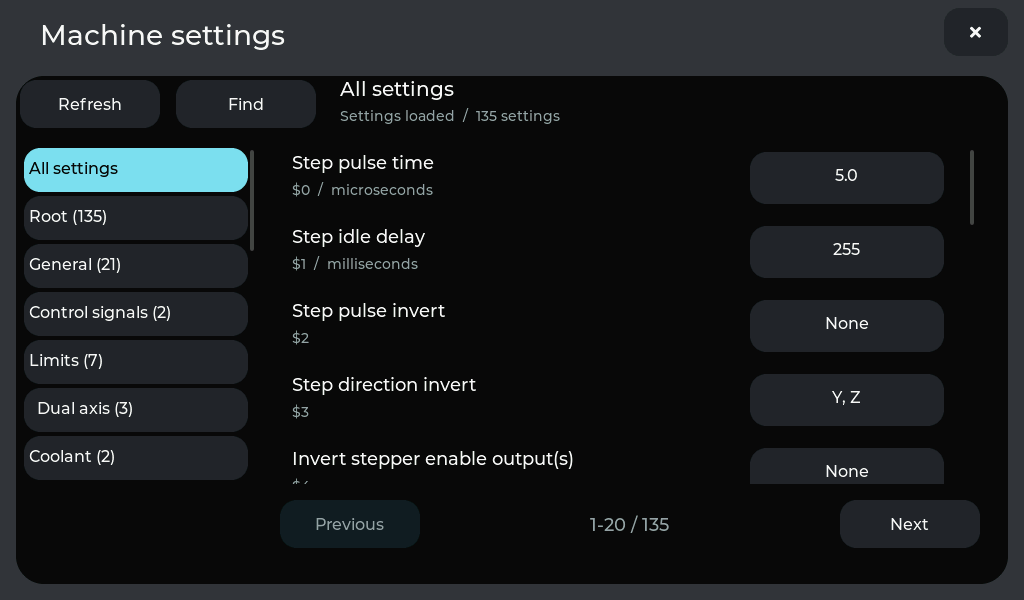
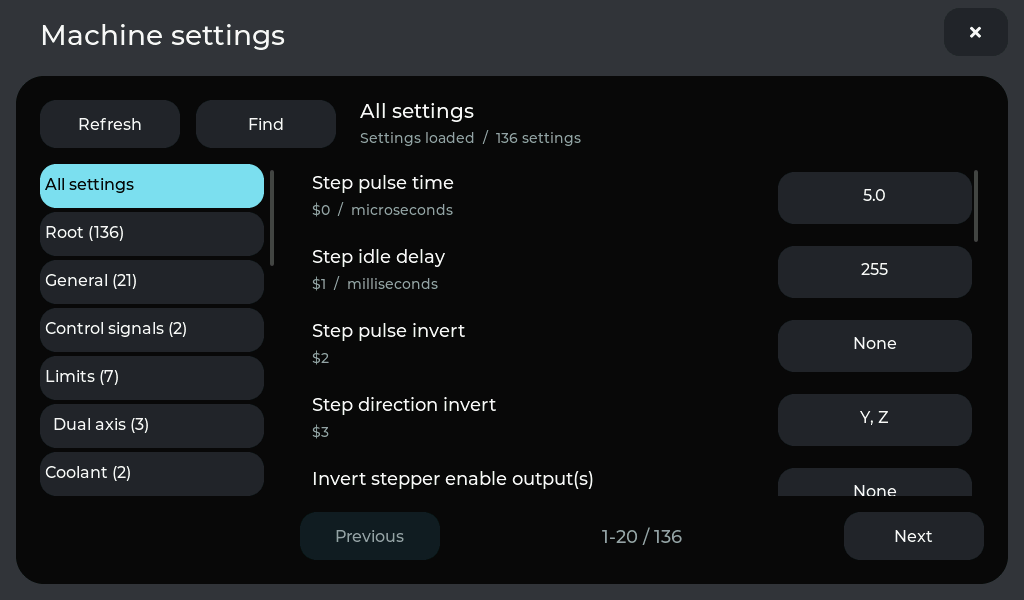
Inset machine settings content consistently within its card

Changed region(s): [[0.0, 0.12, 0.5938, 0.96], [0.7188, 0.24, 0.9688, 0.96], [0.5625, 0.84, 0.6562, 0.9]]

diff --git a/AGENTS.md b/AGENTS.md
@@ -515,3 +515,5 @@ USB3 CDC ACM host uses peripheral_map bit 1 and GPIO24/25, routed with usb_seria
 The selected controller transport connects on pendant boot. Explicit Disconnect suppresses retries until Connect or reboot; demo mode remains fully isolated. USB re-enumeration and identification timeout retry only identification, never interrupted jobs/macros. A persistent USB open failure with a physically present device cycles root-port power through the SDK, without changing the controller's supply or settings. tools/check-controller-boot.py checks startup and can watch a physical controller reset; capture complete UART output for any LCD restart.
 
 CNC Jog caches control appearance by availability/mode flags. Idle/Jog updates change DRO, status and Wi-Fi data only; do not restyle or grey all controls around each jog. The model still rejects busy/non-idle commands; busy direction taps are ignored without queuing work or opening a popup. Alarms, disconnects, jobs and other machine modes still disable controls. Invalidate the appearance key on page rebuild and faults. UG PREFS exposes jog_speed, jog_hold_ms, jog_control_updates and native jog_enabled. tools/check-jog-response.py checks continuous/incremental stability, release timing, busy rejection and fault/disconnect disabling in demo mode; it leaves demo isolated. Zeroing confirmation has a neutral title/card and Cancel with a green Set zero action; USER_2 marks its explicitly neutral Cancel so the full-screen styling does not force it red. Fault dialogs retain their red styling.
+
+Machine Settings uses the standard full-screen page with a 24 px content inset: toolbar at (40,100), lists at y=164 and footer at y=512. Reserve a scrollbar gutter beside setting values; keep these explicit browser coordinates instead of relying on legacy modal-size insetting.
